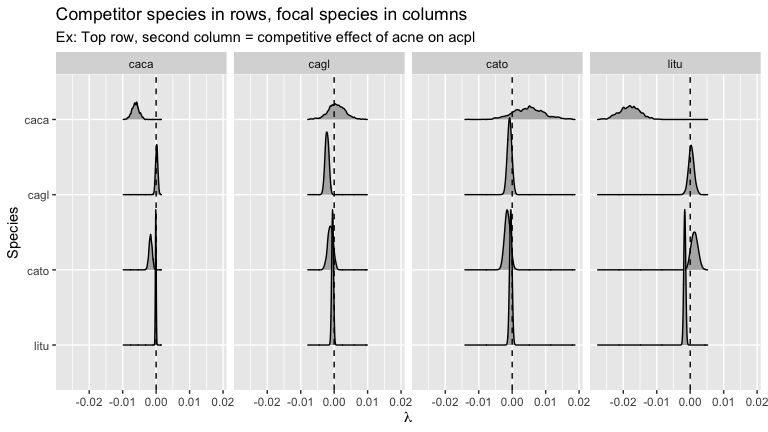
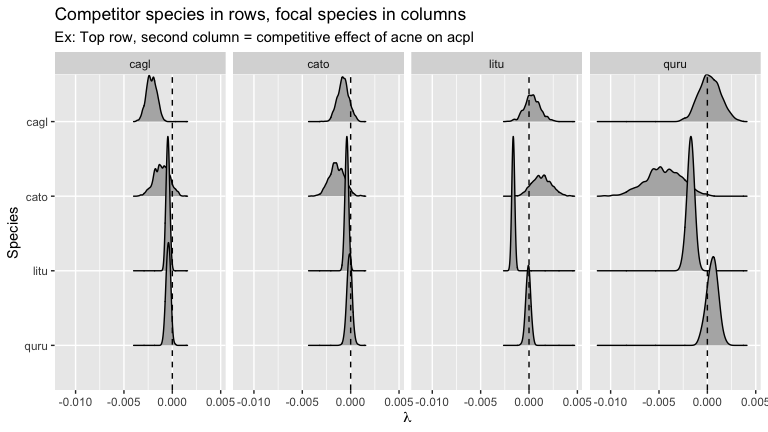
Change species for SCBI example

diff --git a/README.md b/README.md
@@ -682,7 +682,7 @@ posterior_plots[["lambda"]]
 ``` r
 posterior_plots_scbi <- plot_posterior_parameters(
   posterior_param = posterior_param_scbi,
-  sp_to_plot = c("caca", "litu", "cagl", "cato")
+  sp_to_plot = c("quru", "litu", "cagl", "cato")
 )
 ```
 
@@ -691,3 +691,7 @@ posterior_plots_scbi[["lambda"]]
 ```
 
 <img src="man/figures/README-unnamed-chunk-32-1.png" width="100%" />
+
+``` r
+#comment to change
+```
